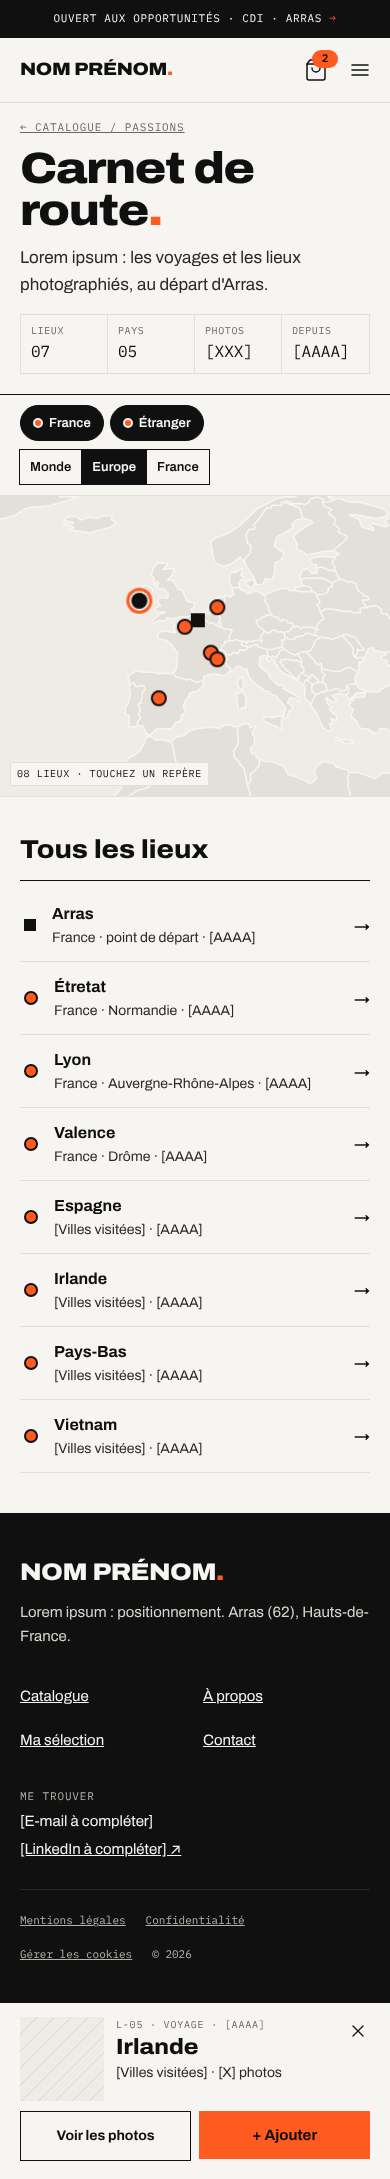
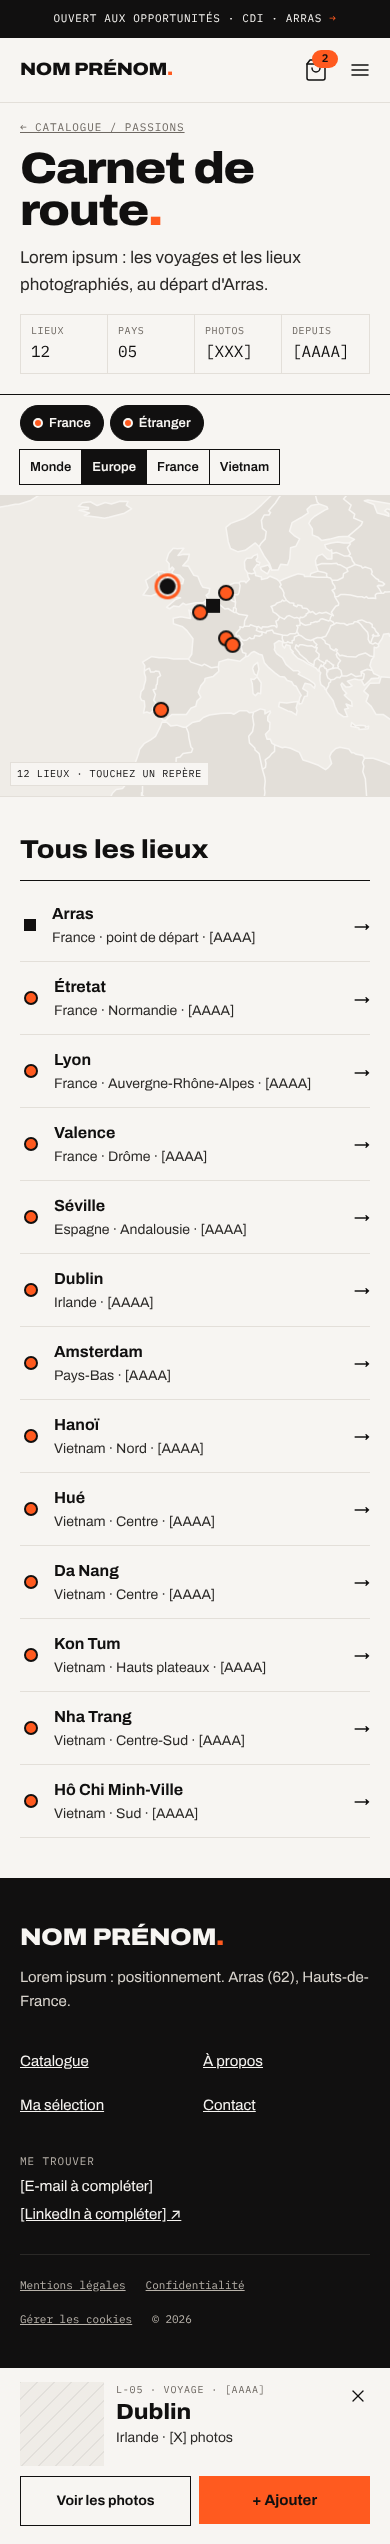
Carnet de route : un repère par ville et zoom Vietnam
12 villes (Étretat, Lyon, Valence, Séville, Dublin, Amsterdam, Hanoï, Hué,
Da Nang, Kon Tum, Nha Trang, Hô Chi Minh-Ville) et Arras comme départ ;
zoom Vietnam pour séparer les villes vietnamiennes ; le compteur de lieux
n'inclut plus le point de départ.

Claude-Session: https://claude.ai/code/session_01PjeDfBiGjpkDXbSLbvdCYH

Changed region(s): [[0.0, 0.0, 1.0, 0.9986], [0.6154, 0.0, 0.9538, 0.0312], [0.9231, 0.1248, 0.9538, 0.156]]

diff --git a/docs/maquettes/source/CarnetDeRoute.dc.html b/docs/maquettes/source/CarnetDeRoute.dc.html
@@ -43,7 +43,7 @@ a:focus-visible,button:focus-visible{outline:2px solid #FF5A1F;outline-offset:2p
 <p style="margin: 0; font-size: 20px; color: #2B2927; max-width: 52ch;">Lorem ipsum dolor sit amet : les voyages et les lieux photographiés, au départ d'Arras.</p>
 </div>
 <dl style="margin: 0; display: grid; grid-template-columns: repeat(4, minmax(0, 1fr)); border: 1px solid #E3DFD9;">
-<div style="padding: 12px 20px; border-right: 1px solid #E3DFD9;"><dt style="font-family: 'IBM Plex Mono', monospace; font-size: 11px; letter-spacing: 0.08em; color: #6E6862;">LIEUX</dt><dd style="margin: 0; font-family: 'IBM Plex Mono', monospace; font-size: 24px;">07</dd></div>
+<div style="padding: 12px 20px; border-right: 1px solid #E3DFD9;"><dt style="font-family: 'IBM Plex Mono', monospace; font-size: 11px; letter-spacing: 0.08em; color: #6E6862;">LIEUX</dt><dd style="margin: 0; font-family: 'IBM Plex Mono', monospace; font-size: 24px;">12</dd></div>
 <div style="padding: 12px 20px; border-right: 1px solid #E3DFD9;"><dt style="font-family: 'IBM Plex Mono', monospace; font-size: 11px; letter-spacing: 0.08em; color: #6E6862;">PAYS</dt><dd style="margin: 0; font-family: 'IBM Plex Mono', monospace; font-size: 24px;">05</dd></div>
 <div style="padding: 12px 20px; border-right: 1px solid #E3DFD9;"><dt style="font-family: 'IBM Plex Mono', monospace; font-size: 11px; letter-spacing: 0.08em; color: #6E6862;">PHOTOS</dt><dd style="margin: 0; font-family: 'IBM Plex Mono', monospace; font-size: 24px;">[XXX]</dd></div>
 <div style="padding: 12px 20px;"><dt style="font-family: 'IBM Plex Mono', monospace; font-size: 11px; letter-spacing: 0.08em; color: #6E6862;">DEPUIS</dt><dd style="margin: 0; font-family: 'IBM Plex Mono', monospace; font-size: 24px;">[AAAA]</dd></div>
@@ -159,16 +159,21 @@ class Component extends DCLogic {
       { id: 'L-01', name: 'Étretat', pays: 'France · Normandie', zone: 'france', type: 'voyage', x: 50.05, y: 15.62 },
       { id: 'L-02', name: 'Lyon', pays: 'France · Auvergne-Rhône-Alpes', zone: 'france', type: 'voyage', x: 51.15, y: 18.32 },
       { id: 'L-03', name: 'Valence', pays: 'France · Drôme', zone: 'france', type: 'voyage', x: 51.16, y: 18.91 },
-      { id: 'L-04', name: 'Espagne', pays: '[Villes visitées]', zone: 'etranger', type: 'voyage', x: 49.09, y: 22.32 },
-      { id: 'L-05', name: 'Irlande', pays: '[Villes visitées]', zone: 'etranger', type: 'voyage', x: 48.28, y: 13.33 },
-      { id: 'L-06', name: 'Pays-Bas', pays: '[Villes visitées]', zone: 'etranger', type: 'voyage', x: 51.19, y: 13.98 },
-      { id: 'L-07', name: 'Vietnam', pays: '[Villes visitées]', zone: 'etranger', type: 'voyage', x: 78.9, y: 41.59 }
+      { id: 'L-04', name: 'Séville', pays: 'Espagne · Andalousie', zone: 'etranger', type: 'voyage', x: 48.5, y: 24.42 },
+      { id: 'L-05', name: 'Dublin', pays: 'Irlande', zone: 'etranger', type: 'voyage', x: 48.61, y: 13.24 },
+      { id: 'L-06', name: 'Amsterdam', pays: 'Pays-Bas', zone: 'etranger', type: 'voyage', x: 51.1, y: 13.87 },
+      { id: 'L-07', name: 'Hanoï', pays: 'Vietnam · Nord', zone: 'etranger', type: 'voyage', x: 78.46, y: 37.41 },
+      { id: 'L-08', name: 'Hué', pays: 'Vietnam · Centre', zone: 'etranger', type: 'voyage', x: 79.3, y: 41.21 },
+      { id: 'L-09', name: 'Da Nang', pays: 'Vietnam · Centre', zone: 'etranger', type: 'voyage', x: 79.5, y: 41.55 },
+      { id: 'L-10', name: 'Kon Tum', pays: 'Vietnam · Hauts plateaux', zone: 'etranger', type: 'voyage', x: 79.55, y: 42.98 },
+      { id: 'L-11', name: 'Nha Trang', pays: 'Vietnam · Centre-Sud', zone: 'etranger', type: 'voyage', x: 80.0, y: 44.76 },
+      { id: 'L-12', name: 'Hô Chi Minh-Ville', pays: 'Vietnam · Sud', zone: 'etranger', type: 'voyage', x: 79.37, y: 45.96 }
     ];
   }
   pick(id) { this.setState({ sel: id, anim: this.state.anim + 1 }); }
   renderVals() {
     const s = this.state;
-    const Z = { monde: { z: 1, x: 50, y: 50 }, europe: { z: 3, x: 50.9, y: 17.5 }, france: { z: 9, x: 50.6, y: 17.2 } }[s.zone];
+    const Z = { monde: { z: 1, x: 50, y: 50 }, europe: { z: 3.4, x: 49.8, y: 18.8 }, france: { z: 9, x: 50.6, y: 17.2 }, vietnam: { z: 12, x: 79.2, y: 41.7 } }[s.zone];
     const zoom = Z.z;
     const all = this.lieux();
     const visible = (l) => l.type === 'depart' || (l.zone === 'france' && s.photo) || (l.zone === 'etranger' && s.trail);
@@ -207,10 +212,10 @@ class Component extends DCLogic {
       count: s.panier.length,
       filtres: [
         chip(s.photo, 'France', '03', () => this.setState({ photo: !s.photo }), 'width: 12px; height: 12px; border-radius: 999px; border: 2px solid currentColor; box-sizing: border-box;'),
-        chip(s.trail, 'Étranger', '04', () => this.setState({ trail: !s.trail }), 'width: 10px; height: 10px; border-radius: 999px; border: 2px solid currentColor; box-sizing: border-box;')
+        chip(s.trail, 'Étranger', '09', () => this.setState({ trail: !s.trail }), 'width: 10px; height: 10px; border-radius: 999px; border: 2px solid currentColor; box-sizing: border-box;')
       ],
-      zones: [zoneBtn('monde', 'Monde'), zoneBtn('europe', 'Europe'), zoneBtn('france', 'France')],
-      nbVisibles: String(vis.length).padStart(2, '0'),
+      zones: [zoneBtn('monde', 'Monde'), zoneBtn('europe', 'Europe'), zoneBtn('france', 'France'), zoneBtn('vietnam', 'Vietnam')],
+      nbVisibles: String(vis.filter((l) => l.type !== 'depart').length).padStart(2, '0'),
       carteStyle: 'position: relative; width: 100%; transform-origin: ' + Z.x + '% ' + Z.y + '%; transform: translate(' + (zoom > 1 ? (50 - Z.x) : 0) + '%, ' + (zoom > 1 ? (50 - Z.y) : 0) + '%) scale(' + zoom + ');',
       pins,
       aucun: !cur, unLieu: !!cur,
@@ -225,7 +230,7 @@ class Component extends DCLogic {
       selBtnStyle: 'height: 52px; font: 700 16px Archivo, sans-serif; cursor: pointer; border: 1px solid #111010; transition: background 160ms ease-out, color 160ms ease-out;' + (inPanier ? ' background: #111010; color: #F7F5F2;' : ' background: #FF5A1F; color: #111010; border-color: #FF5A1F;'),
       toggleSel: () => { if (!cur) return; const p = s.panier; this.setState({ panier: inPanier ? p.filter((x) => x !== cur.id) : p.concat([cur.id]) }); },
       prev: step(-1), next: step(1),
-      liste: all.map((l) => Object.assign({}, l, { typeMaj: typeMaj[l.type], pick: () => { this.setState({ photo: s.photo || l.type === 'photo', trail: s.trail || l.type === 'trail' }); this.pick(l.id); } }))
+      liste: all.map((l) => Object.assign({}, l, { typeMaj: typeMaj[l.type], pick: () => { this.setState({ photo: true, trail: true, zone: (l.x > 70 ? 'vietnam' : l.zone === 'france' ? 'france' : 'europe') }); this.pick(l.id); } }))
     };
   }
 }

diff --git a/docs/maquettes/source/CarnetDeRouteMobile.dc.html b/docs/maquettes/source/CarnetDeRouteMobile.dc.html
@@ -32,7 +32,7 @@ a:focus-visible,button:focus-visible{outline:2px solid #FF5A1F;outline-offset:2p
 <h1 style="margin: 0; font-size: 44px; line-height: 0.95; font-weight: 850; font-variation-settings: 'wdth' 112; letter-spacing: -0.03em;">Carnet de route<span style="color: #FF5A1F;">.</span></h1>
 <p style="margin: 0; font-size: 17px; color: #2B2927;">Lorem ipsum : les voyages et les lieux photographiés, au départ d'Arras.</p>
 <dl style="margin: 4px 0 0; display: grid; grid-template-columns: repeat(4, minmax(0, 1fr)); border: 1px solid #E3DFD9;">
-<div style="padding: 8px 10px; border-right: 1px solid #E3DFD9;"><dt style="font-family: 'IBM Plex Mono', monospace; font-size: 10px; letter-spacing: 0.06em; color: #6E6862;">LIEUX</dt><dd style="margin: 0; font-family: 'IBM Plex Mono', monospace; font-size: 16px;">07</dd></div>
+<div style="padding: 8px 10px; border-right: 1px solid #E3DFD9;"><dt style="font-family: 'IBM Plex Mono', monospace; font-size: 10px; letter-spacing: 0.06em; color: #6E6862;">LIEUX</dt><dd style="margin: 0; font-family: 'IBM Plex Mono', monospace; font-size: 16px;">12</dd></div>
 <div style="padding: 8px 10px; border-right: 1px solid #E3DFD9;"><dt style="font-family: 'IBM Plex Mono', monospace; font-size: 10px; letter-spacing: 0.06em; color: #6E6862;">PAYS</dt><dd style="margin: 0; font-family: 'IBM Plex Mono', monospace; font-size: 16px;">05</dd></div>
 <div style="padding: 8px 10px; border-right: 1px solid #E3DFD9;"><dt style="font-family: 'IBM Plex Mono', monospace; font-size: 10px; letter-spacing: 0.06em; color: #6E6862;">PHOTOS</dt><dd style="margin: 0; font-family: 'IBM Plex Mono', monospace; font-size: 16px;">[XXX]</dd></div>
 <div style="padding: 8px 10px;"><dt style="font-family: 'IBM Plex Mono', monospace; font-size: 10px; letter-spacing: 0.06em; color: #6E6862;">DEPUIS</dt><dd style="margin: 0; font-family: 'IBM Plex Mono', monospace; font-size: 16px;">[AAAA]</dd></div>
@@ -112,12 +112,17 @@ class Component extends DCLogic {
       { id: 'L-01', name: 'Étretat', pays: 'France · Normandie', zone: 'france', type: 'voyage', x: 50.05, y: 15.62 },
       { id: 'L-02', name: 'Lyon', pays: 'France · Auvergne-Rhône-Alpes', zone: 'france', type: 'voyage', x: 51.15, y: 18.32 },
       { id: 'L-03', name: 'Valence', pays: 'France · Drôme', zone: 'france', type: 'voyage', x: 51.16, y: 18.91 },
-      { id: 'L-04', name: 'Espagne', pays: '[Villes visitées]', zone: 'etranger', type: 'voyage', x: 49.09, y: 22.32 },
-      { id: 'L-05', name: 'Irlande', pays: '[Villes visitées]', zone: 'etranger', type: 'voyage', x: 48.28, y: 13.33 },
-      { id: 'L-06', name: 'Pays-Bas', pays: '[Villes visitées]', zone: 'etranger', type: 'voyage', x: 51.19, y: 13.98 },
-      { id: 'L-07', name: 'Vietnam', pays: '[Villes visitées]', zone: 'etranger', type: 'voyage', x: 78.9, y: 41.59 }
+      { id: 'L-04', name: 'Séville', pays: 'Espagne · Andalousie', zone: 'etranger', type: 'voyage', x: 48.5, y: 24.42 },
+      { id: 'L-05', name: 'Dublin', pays: 'Irlande', zone: 'etranger', type: 'voyage', x: 48.61, y: 13.24 },
+      { id: 'L-06', name: 'Amsterdam', pays: 'Pays-Bas', zone: 'etranger', type: 'voyage', x: 51.1, y: 13.87 },
+      { id: 'L-07', name: 'Hanoï', pays: 'Vietnam · Nord', zone: 'etranger', type: 'voyage', x: 78.46, y: 37.41 },
+      { id: 'L-08', name: 'Hué', pays: 'Vietnam · Centre', zone: 'etranger', type: 'voyage', x: 79.3, y: 41.21 },
+      { id: 'L-09', name: 'Da Nang', pays: 'Vietnam · Centre', zone: 'etranger', type: 'voyage', x: 79.5, y: 41.55 },
+      { id: 'L-10', name: 'Kon Tum', pays: 'Vietnam · Hauts plateaux', zone: 'etranger', type: 'voyage', x: 79.55, y: 42.98 },
+      { id: 'L-11', name: 'Nha Trang', pays: 'Vietnam · Centre-Sud', zone: 'etranger', type: 'voyage', x: 80.0, y: 44.76 },
+      { id: 'L-12', name: 'Hô Chi Minh-Ville', pays: 'Vietnam · Sud', zone: 'etranger', type: 'voyage', x: 79.37, y: 45.96 }
     ];
-    const Z = { monde: { z: 1, x: 50, y: 50 }, europe: { z: 6.5, x: 50.4, y: 17.5 }, france: { z: 18, x: 50.6, y: 17.2 } }[s.zone];
+    const Z = { monde: { z: 1, x: 50, y: 50 }, europe: { z: 6.5, x: 49.8, y: 18.8 }, france: { z: 18, x: 50.6, y: 17.2 }, vietnam: { z: 18, x: 79.2, y: 41.7 } }[s.zone];
     const zoom = Z.z;
     const visible = (l) => l.type === 'depart' || (l.zone === 'france' && s.photo) || (l.zone === 'etranger' && s.trail);
     const vis = all.filter(visible);
@@ -146,8 +151,8 @@ class Component extends DCLogic {
         chip(s.photo, 'France', () => this.setState({ photo: !s.photo }), 'width: 10px; height: 10px; border-radius: 999px; border: 2px solid currentColor; box-sizing: border-box;'),
         chip(s.trail, 'Étranger', () => this.setState({ trail: !s.trail }), 'width: 10px; height: 10px; border-radius: 999px; border: 2px solid currentColor; box-sizing: border-box;')
       ],
-      zones: [zoneBtn('monde', 'Monde'), zoneBtn('europe', 'Europe'), zoneBtn('france', 'France')],
-      nbVisibles: String(vis.length).padStart(2, '0'),
+      zones: [zoneBtn('monde', 'Monde'), zoneBtn('europe', 'Europe'), zoneBtn('france', 'France'), zoneBtn('vietnam', 'Vietnam')],
+      nbVisibles: String(vis.filter((l) => l.type !== 'depart').length).padStart(2, '0'),
       carteStyle: 'position: relative; width: 100%; transform-origin: ' + Z.x + '% ' + Z.y + '%; transform: translate(' + (zoom > 1 ? (50 - Z.x) : 0) + '%, ' + (zoom > 1 ? (50 - Z.y) : 0) + '%) scale(' + zoom + ');',
       pins: vis.map((l, i) => ({
         pressed: l.id === s.sel ? 'true' : 'false',
@@ -166,7 +171,7 @@ class Component extends DCLogic {
       toggleSel: () => { if (!cur) return; const p = s.panier; this.setState({ panier: inPanier ? p.filter((x) => x !== cur.id) : p.concat([cur.id]) }); },
       liste: all.map((l) => Object.assign({}, l, {
         mark: shape(l.type, false, 14) + ' flex: none; margin: 0 4px;',
-        pick: () => this.setState({ sel: l.id, photo: s.photo || l.type === 'photo', trail: s.trail || l.type === 'trail', zone: l.zone === 'france' ? 'france' : (l.x > 40 && l.x < 60 && l.y < 30 ? 'europe' : 'monde') })
+        pick: () => this.setState({ sel: l.id, photo: s.photo || l.type === 'photo', trail: s.trail || l.type === 'trail', zone: (l.x > 70 ? 'vietnam' : l.zone === 'france' ? 'france' : 'europe') })
       }))
     };
   }

diff --git a/docs/maquettes/README.md b/docs/maquettes/README.md
@@ -38,6 +38,6 @@ La tablette utilise les pages desktop, qui sont fluides : sous 1024 px, le menu 
 - Contact : initial, erreurs (bordure et message Erreur #C8102E), envoyé.
 - Bandeau cookies : bandeau, panneau Personnaliser, confirmation.
 - Mobile : bouton « Ajouter à ma sélection » fixé en bas des fiches, sections dépliables, panneau de filtres.
-- Carnet de route : clic sur un repère (repère actif noir avec anneau orange), filtres France / Étranger, zoom Monde / Europe / France, fiche du lieu (panneau à droite en desktop, panneau bas en mobile), ajout à Ma sélection.
+- Carnet de route : 12 villes et Arras (départ), clic sur un repère (repère actif noir avec anneau orange), filtres France / Étranger, zoom Monde / Europe / France / Vietnam, fiche du lieu (panneau à droite en desktop, panneau bas en mobile), ajout à Ma sélection.
 
 Contenus en lorem ipsum et emplacements d'image hachurés (type de visuel + ratio) : à remplacer par les contenus réels.
